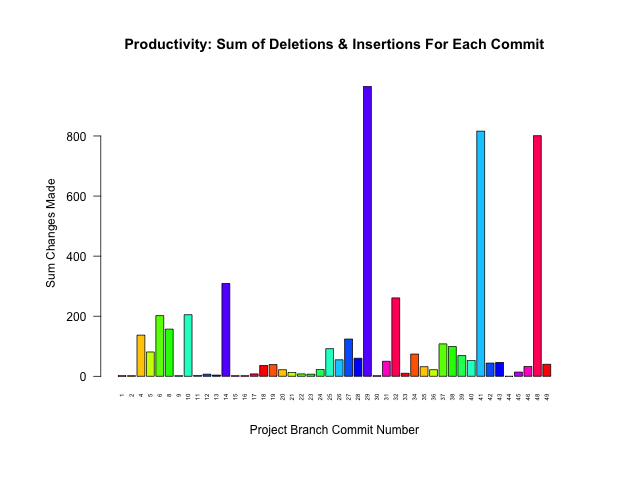
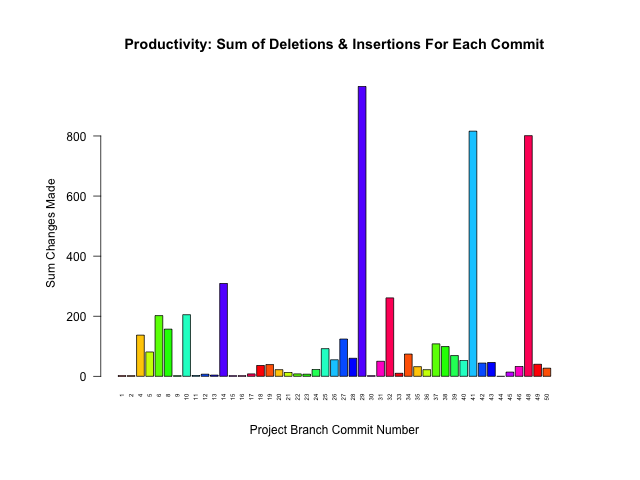
COMMIT #107

Changed region(s): [[0.2812, 0.1562, 0.875, 0.8438], [0.2188, 0.6562, 0.3125, 0.7812]]

diff --git a/README.md b/README.md
@@ -18,8 +18,8 @@ ProjectName::BranchName.data
 
 Project Name | Last Updated | # of Commits | # of Branches
 :---|:---|:---|:---
-FASTQ_examiner_project                   |  2023-04-03  |  49   |  1
-commit_tracker_project                   |  2023-04-02  |  105  |  1
+FASTQ_examiner_project                   |  2023-04-04  |  50   |  1
+commit_tracker_project                   |  2023-04-03  |  106  |  1
 minishell_project                        |  2023-02-03  |  67   |  8
 ft_printf_project                        |  2023-01-27  |  36   |  2
 test_non-fastforward_merge-push_project  |  2023-01-27  |  15   |  2
